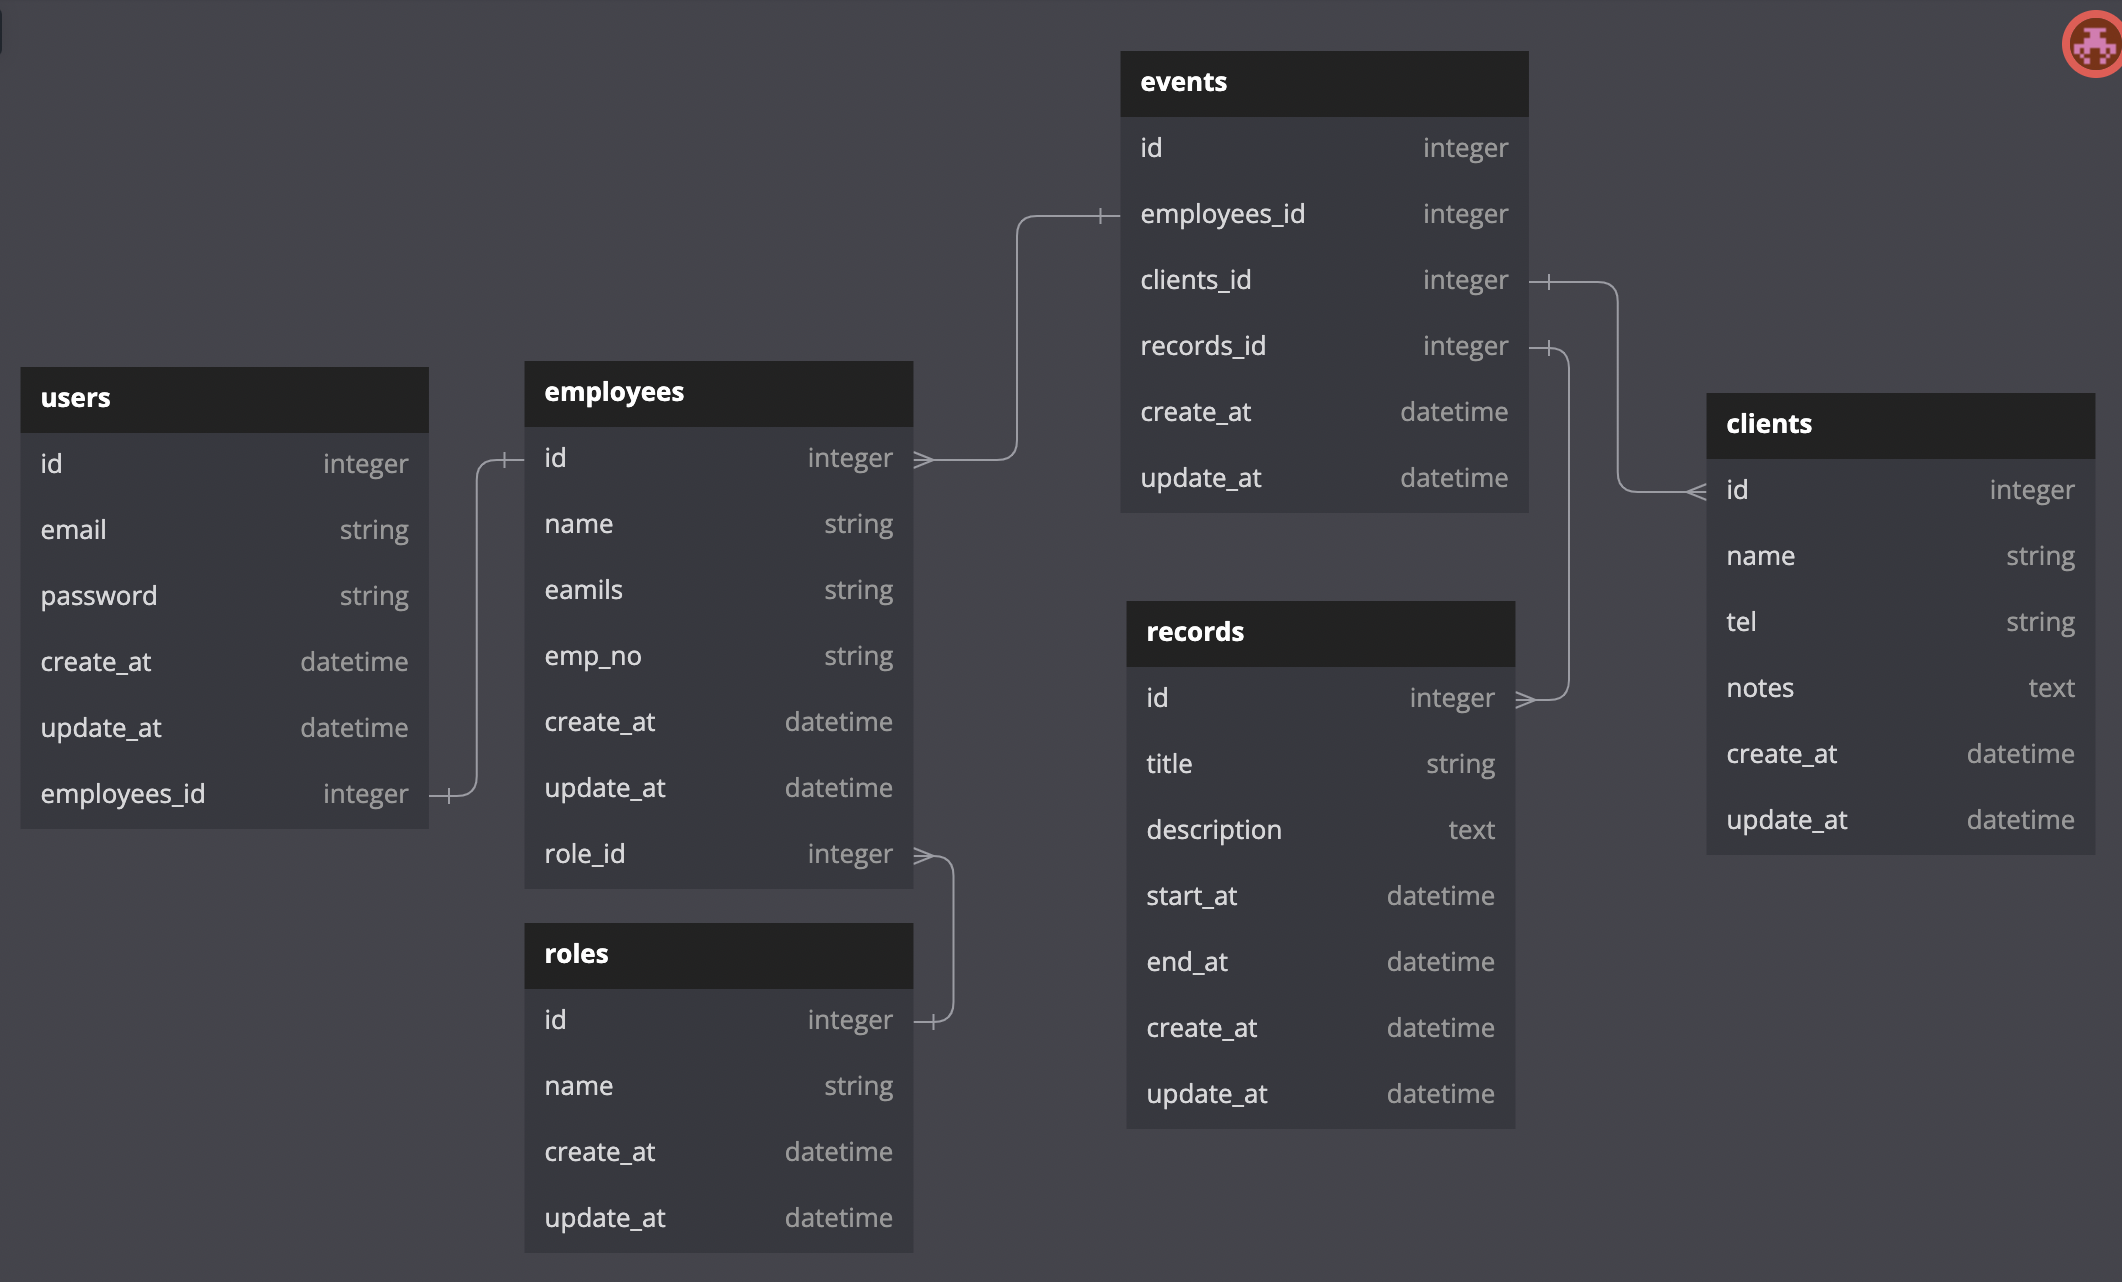
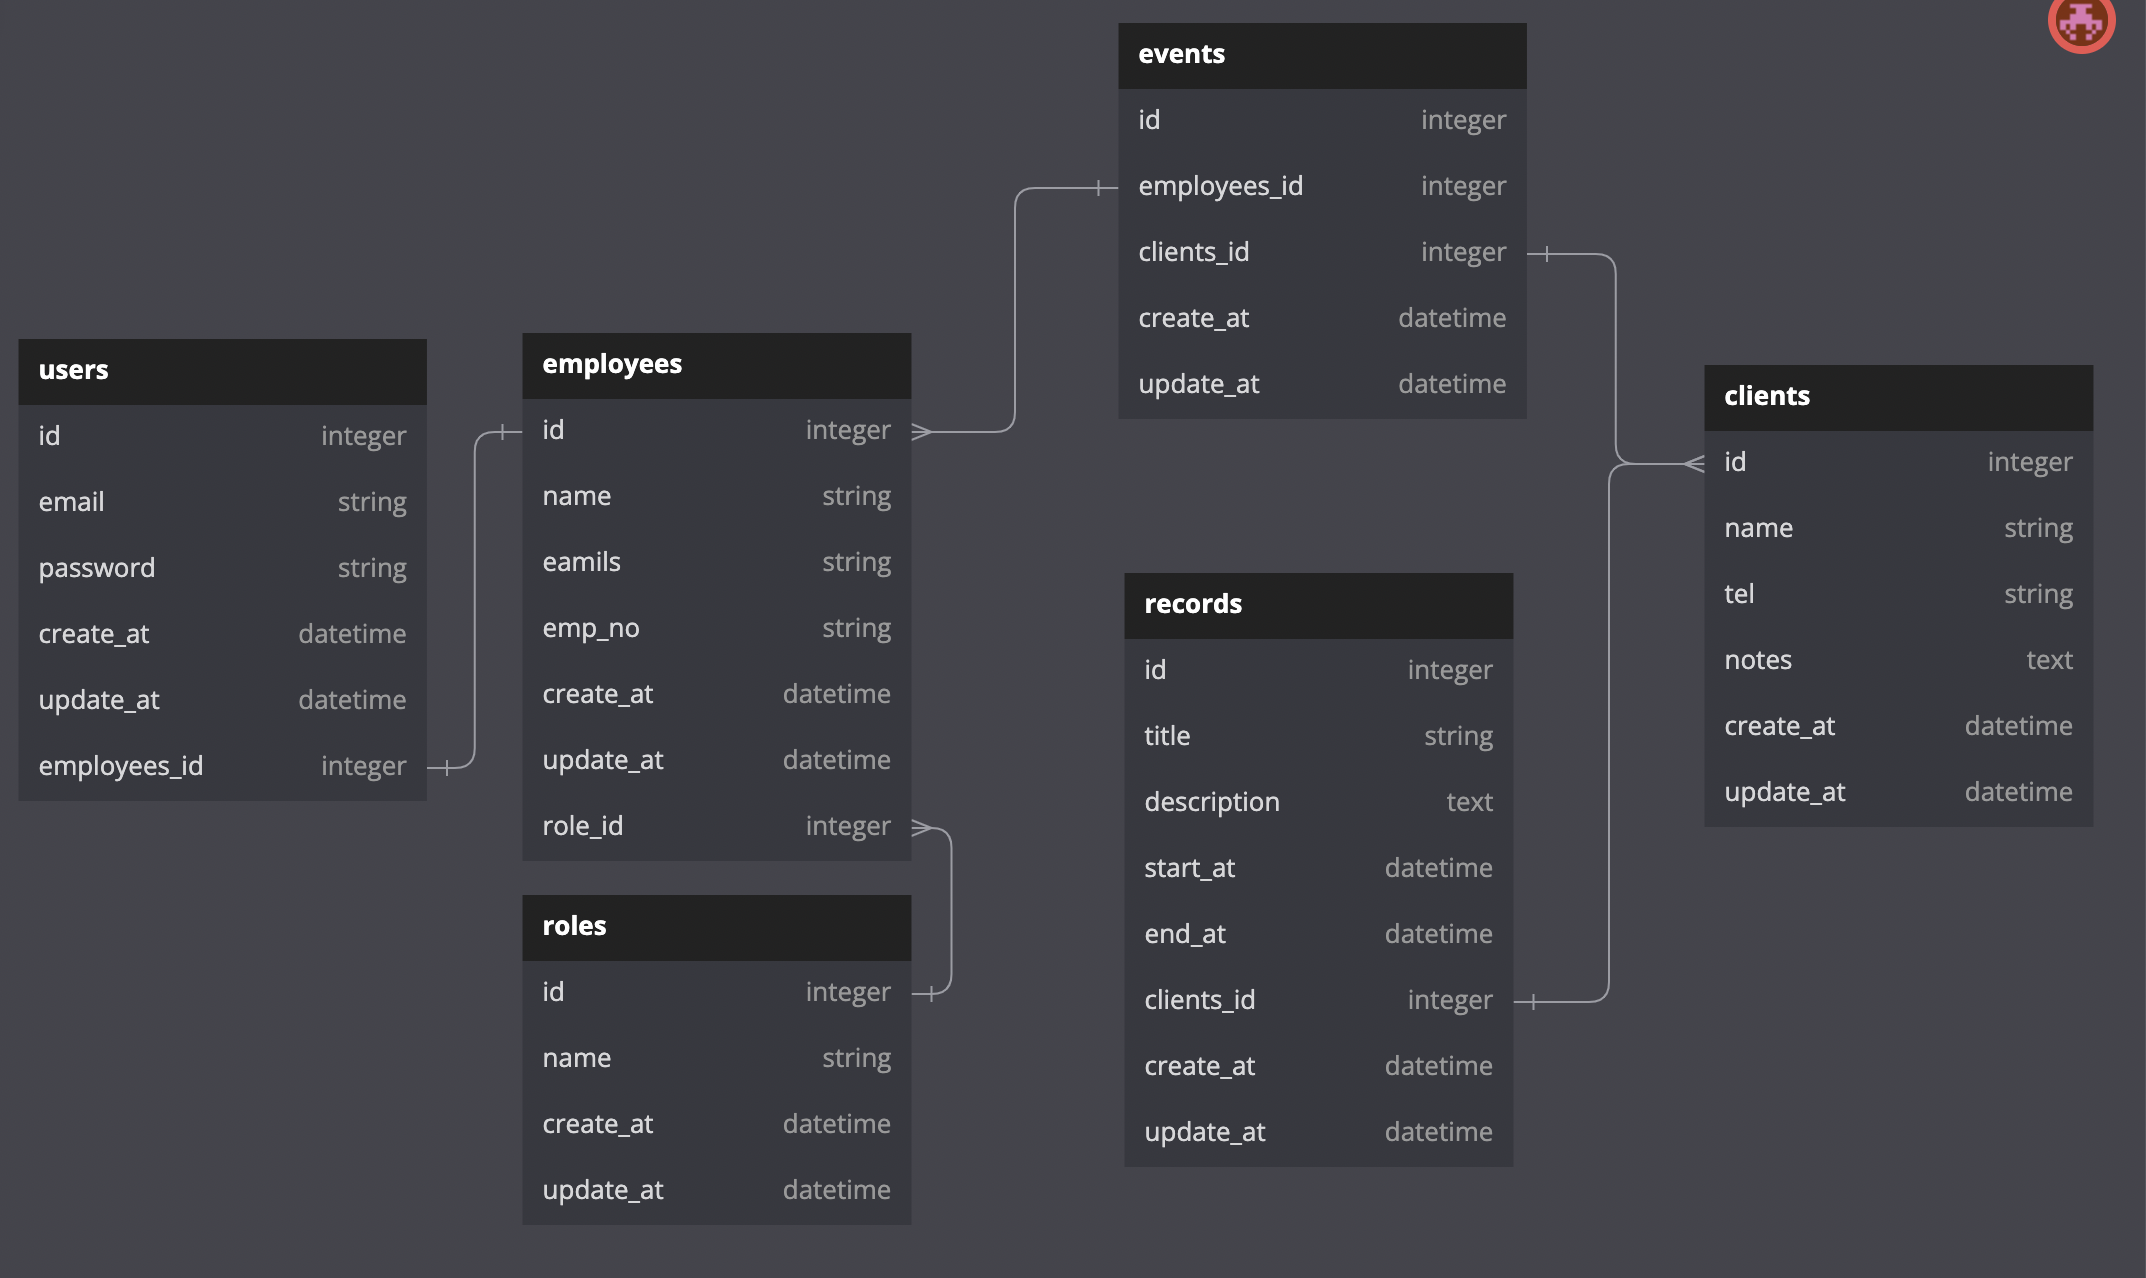
在readme裡增加說明

diff --git a/README.md b/README.md
@@ -1,13 +1,28 @@
 # README
+## solution 1:
+此題有上傳到我的 GitHib 帳號，以下為此檔案的連結：
+[https://github.com/DylanHHY/Question-1](https://github.com/DylanHHY/Question-1)
 ## solution 2:
+### 使用版本
 - ruby-3.1.2
 - rails 6.1.7
+### 使用說明
+1. bundle install
+2. yarn install
+3. rake dev:fake
 ### Database 關聯圖 
-![關聯圖](../Desktop/%E8%B3%87%E6%96%99%E8%A1%A8%E9%97%9C%E8%81%AF%E5%9C%96.png)
+以下為各資料表關聯：
+![資料表關聯圖](%E8%B3%87%E6%96%99%E8%A1%A8%E9%97%9C%E8%81%AF%E5%9C%96.png)
+1. 每個員工(employee) 都會有一組帳號(user) 跟一個身份(role)。
+2. 給個客戶(client) 都會有一個或多個負責的員工(employee) 跟多份紀錄(record)。
+### 說明
+假設有一名員工可能會被分配到多個客戶，一位客戶有只會有一位員工負責。
+而每位客戶的會有多個紀錄。
+因為這是人員管理系統，所以每個員工都會有一組帳號(user)，有這組帳號才能進到系統查看客戶資料。
 ## Solution 3:  Write an SQL query of MS SQL Server 
-
+```sql
 select MAX(salary) as Second_Salary
 from Employee
 where salary < 
 (select MAX(salary) from Employee );
-
+```
